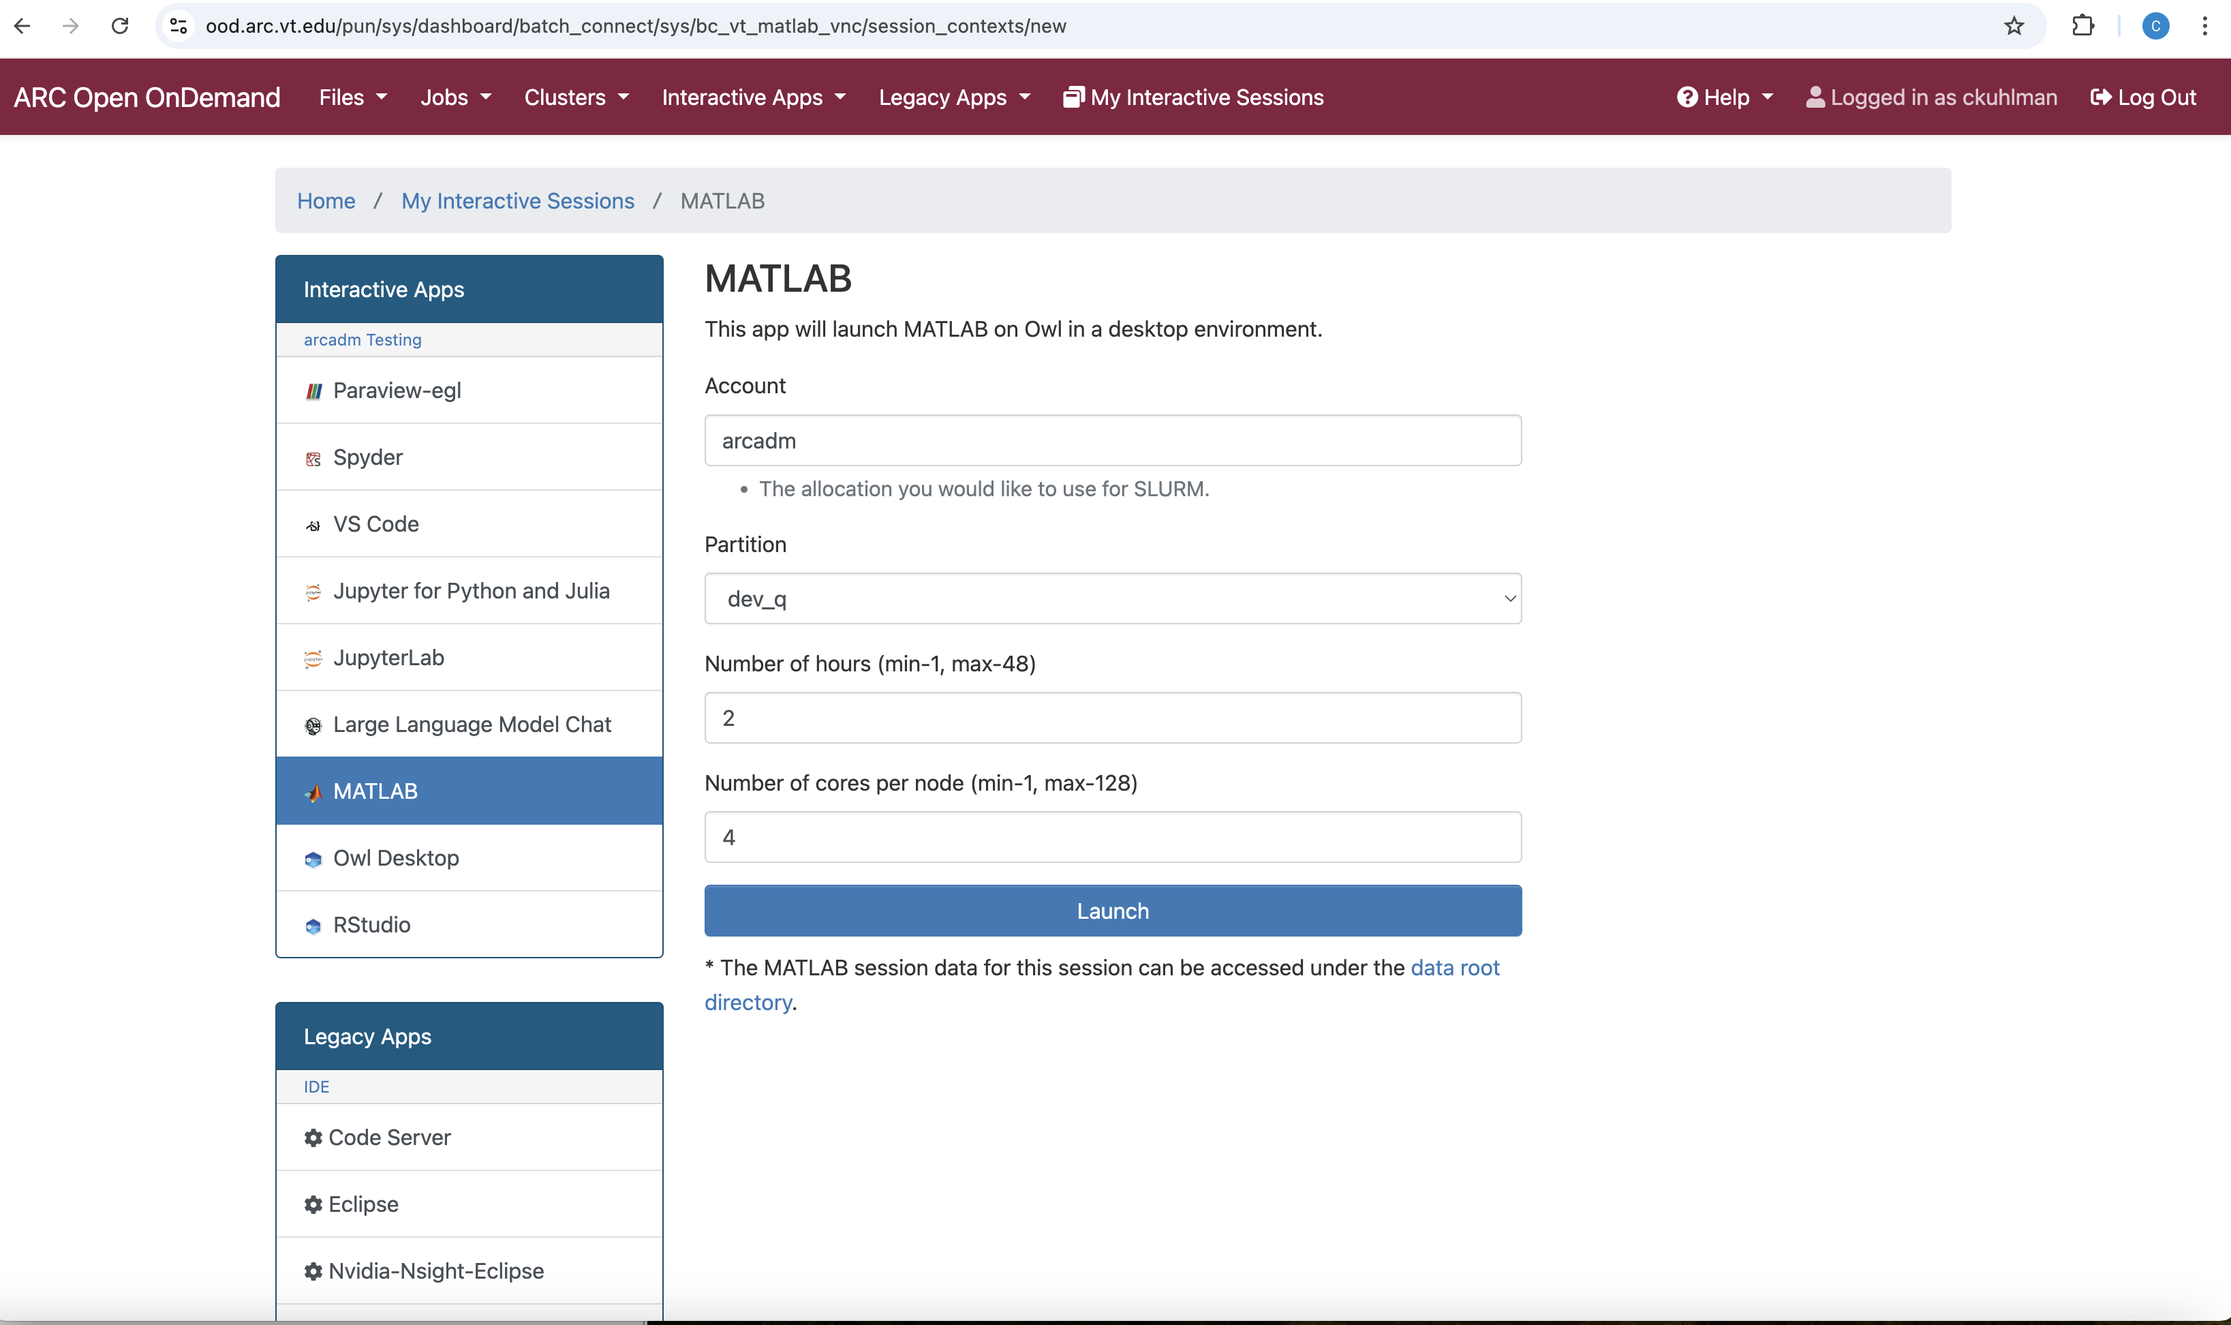
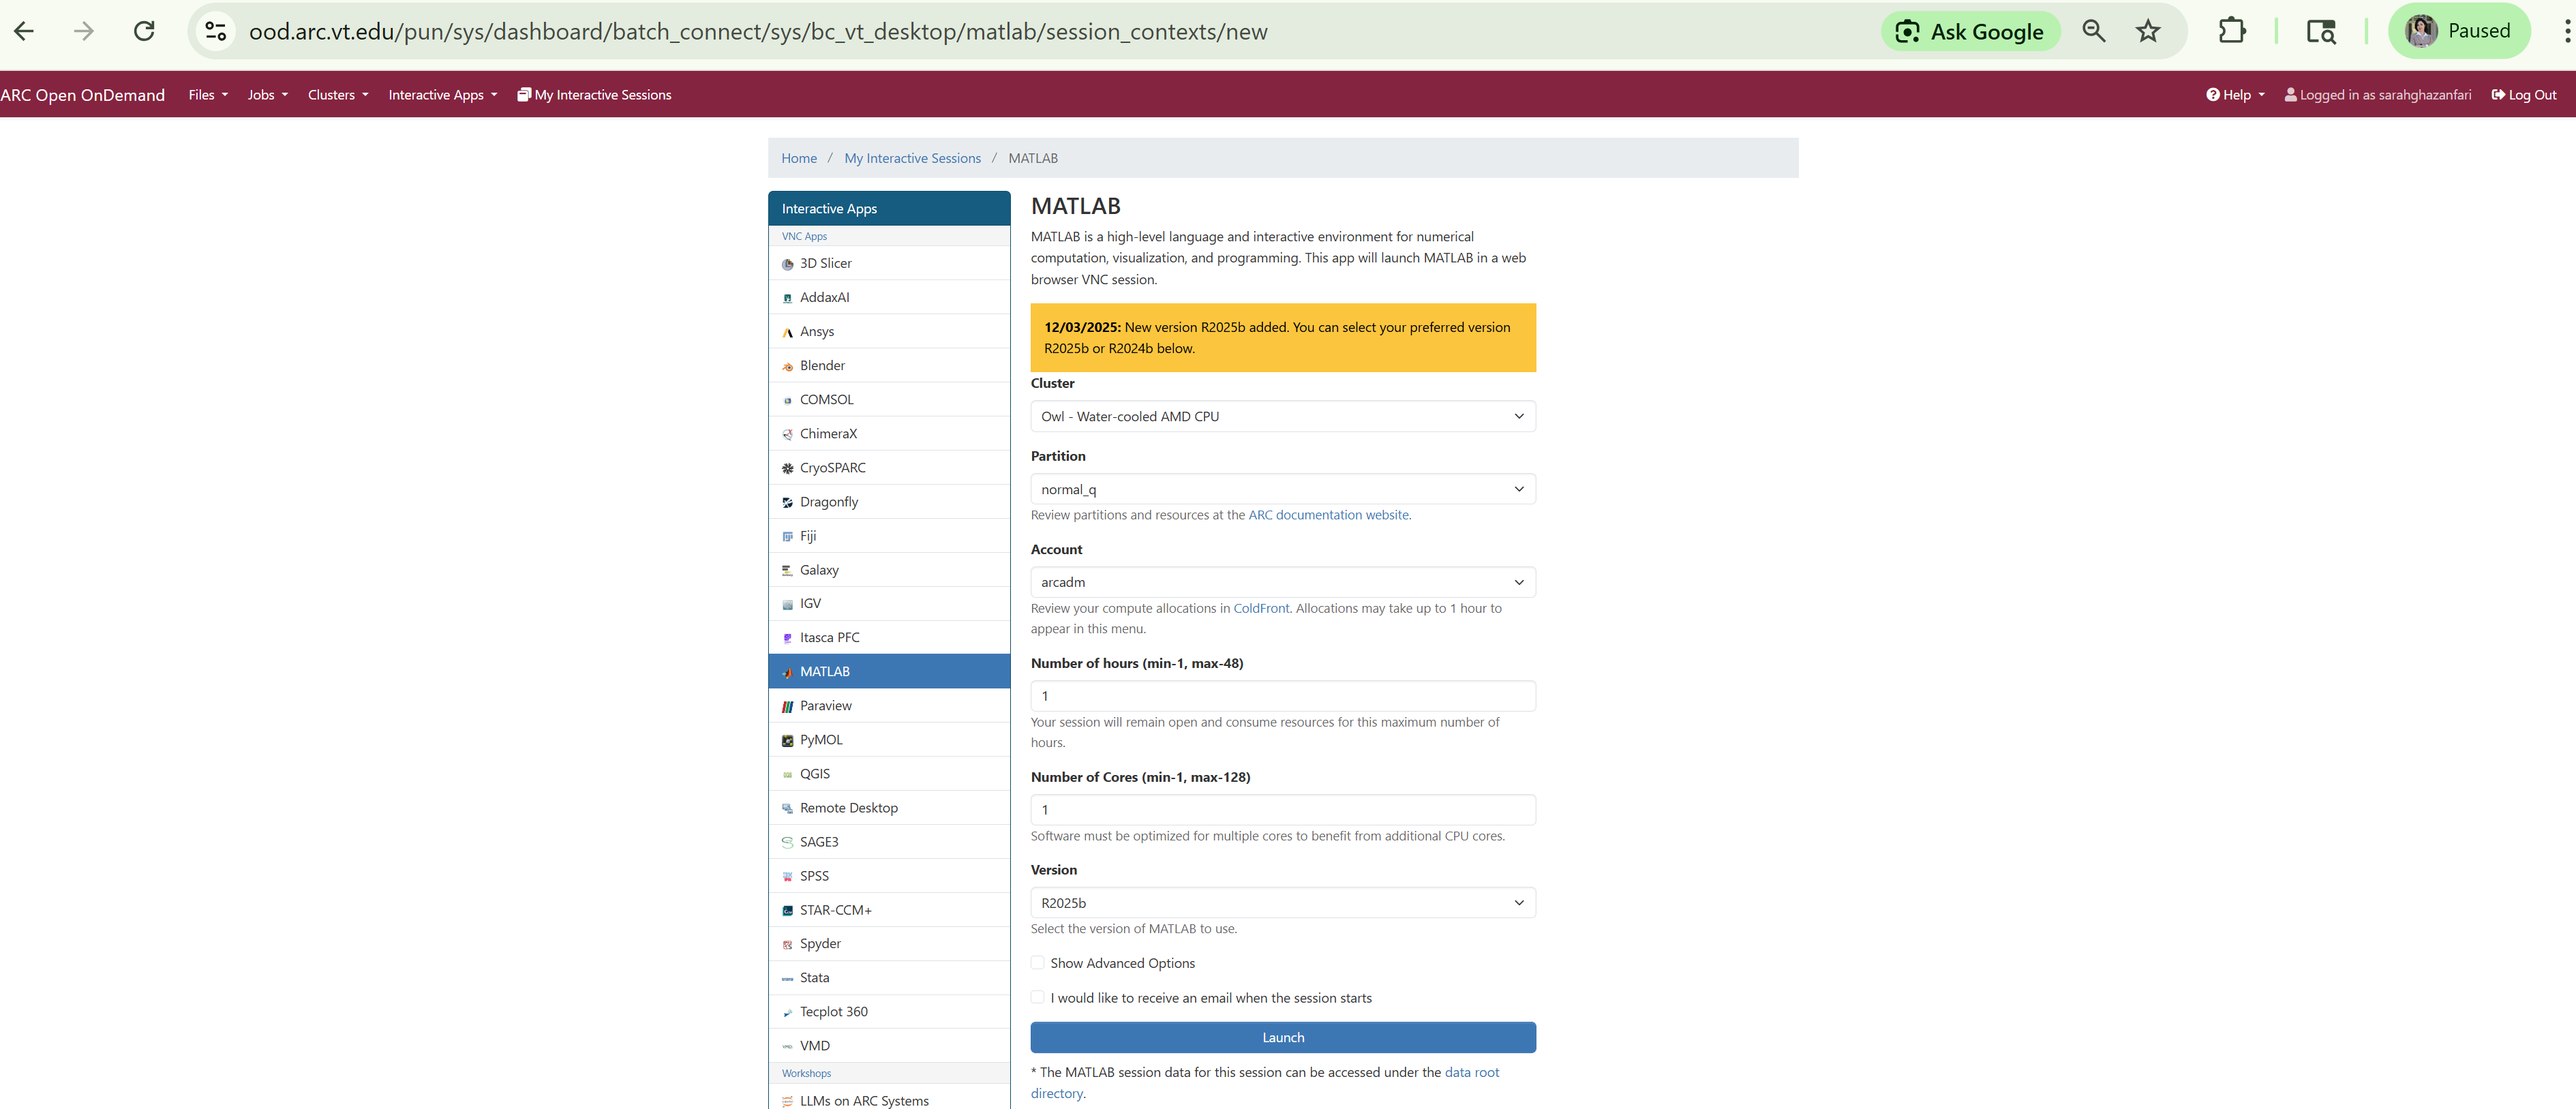
matlab

diff --git a/ood/matlab.md b/ood/matlab.md
@@ -25,10 +25,10 @@ is an administrator account.
 
 Matlab is a taxing application, so consider specifying four cores per node.
 
-[Matlab Launch](./figures/matlab/matlab-launch.pdf)
-![Matlab Launch](./figures/matlab/matlab-launch.png)
 
-![Matlab Launch](./figures/matlab/matlab-launch.png)
+![Matlab Launch](figures/matlab/matlab-launch.png)
+
+
 
 After clicking the `Launch` button,
 you will see an information screen.
